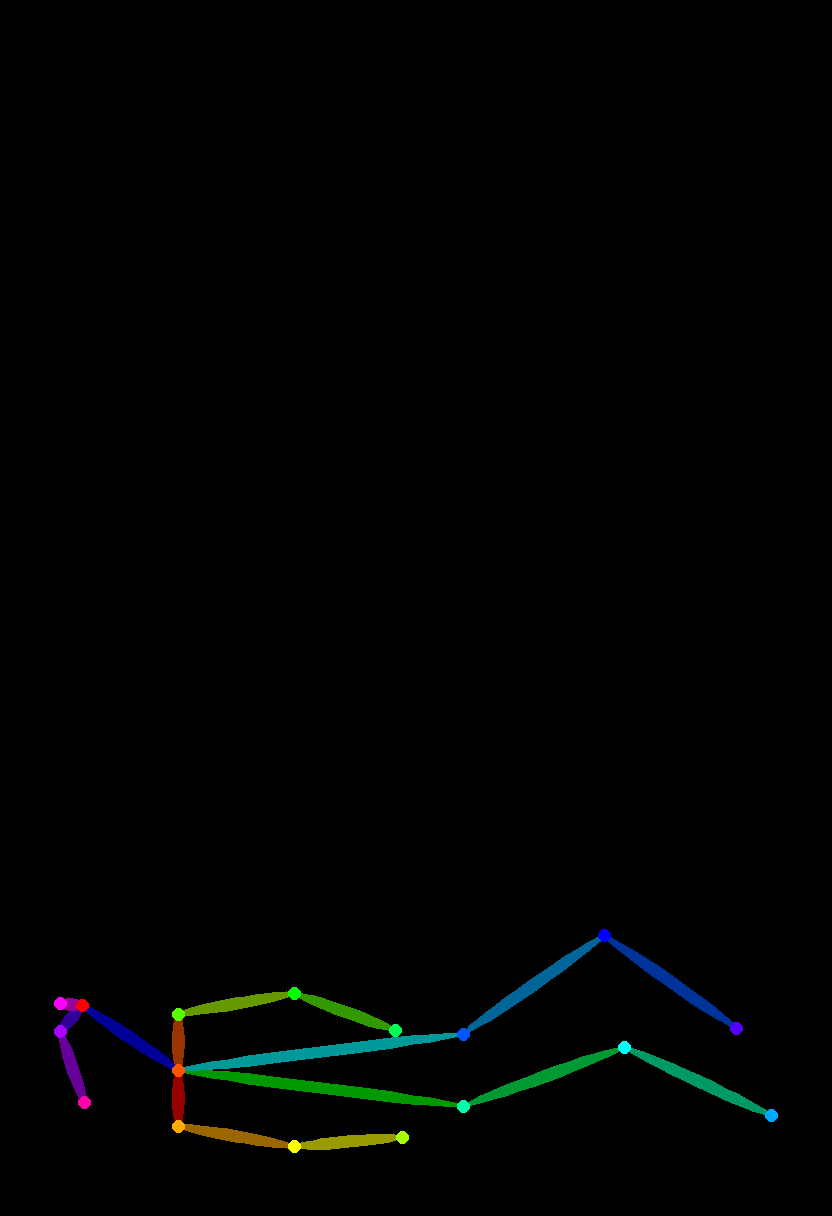
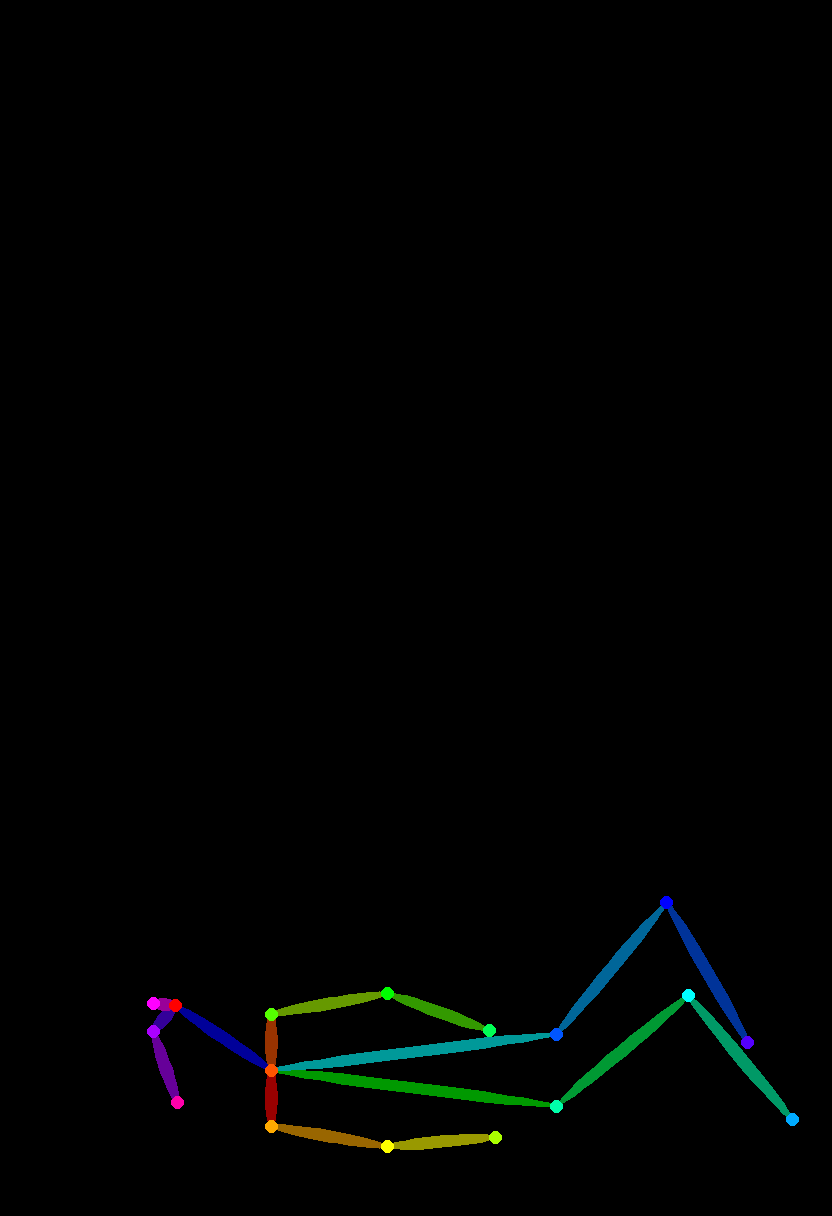
Fold KO legs so both lying poses fit the shared canvas
The in-engine state capture showed Akaken's topknot and Aotake's hat tip
clipped at the 832x1216 canvas edge in the KO poses. make_poses.py now
counts the head tip for horizontal centring and the KO knees are folded
further. Only the two KO skeletons (plus their blocking, collision and
storyboard panels 06/08) change; the other 14 poses are identical.

Changed region(s): [[0.0625, 0.7188, 0.9688, 0.9688]]

diff --git a/tools/make_poses.py b/tools/make_poses.py
@@ -51,7 +51,7 @@ FIGHTERS = {
             "07_high_kick": (196, (-60, -35), (40, 160), (-6, 0), (118, 112), 0),
             "08_block": (184, (78, 176), (68, 178), (-22, -8), (20, 6), 0),
             "09_hurt": (206, (-125, -150), (-60, -100), (-30, -18), (14, 0), 0),
-            "10_ko_down": (-90, (80, 95), (100, 70), (110, 65), (125, 55), 0),
+            "10_ko_down": (-90, (80, 95), (100, 70), (130, 40), (140, 30), 0),
             "11_victory": (180, (172, 180), (30, -40), (-12, -4), (12, 4), 0),
         },
     },
@@ -68,7 +68,7 @@ FIGHTERS = {
             "02_front_kick": (192, (-50, -20), (35, 165), (-4, 0), (100, 92), 0),
             "03_block": (182, (75, 176), (65, 178), (-18, -6), (20, 6), 0),
             "04_hurt": (204, (-120, -150), (-55, -100), (-28, -16), (14, 0), 0),
-            "05_ko_down": (-90, (80, 95), (100, 70), (120, 45), (135, 35), 0),
+            "05_ko_down": (-90, (80, 95), (100, 70), (135, 30), (145, 25), 0),
         },
     },
 }
@@ -125,6 +125,9 @@ def solve(b, pose):
     # Lowest point of the solid body (feet, head, fists) rests on the ground line.
     pts = [p for p in k if p] + [add(head_c, (0, hr)), add(head_c, (0, -hr))]
     xs, ys = [p[0] for p in pts], [p[1] for p in pts]
+    # Topknot / hat tip sticks out ~1.6 head radii along the torso axis. It counts for horizontal
+    # centring (it was clipped in the lying KO poses) but not for grounding.
+    xs.append(add(head_c, mul(t, hr * 1.6))[0])
     dx = W / 2 - (min(xs) + max(xs)) / 2
     dy = GROUND_Y - max(ys) - air
     sh = lambda p: (p[0] + dx, p[1] + dy) if p else None

diff --git a/FRICTIONAL.md b/FRICTIONAL.md
@@ -41,3 +41,18 @@ contributions, and generative-model outputs. Retrospective notes are labeled.
 - **Still unresolved:** whether the red gi at 2.82:1 is enough in motion; whether ControlNet
   OpenPose respects 5-head skeletons (it is trained mostly on realistic proportions); which GPU I
   will actually get.
+
+## 2026-10-05 — KO poses clipped, found in-engine (before any generation)
+
+- **Wanted:** every state image to fit the shared 832×1216 canvas, because the same canvas is the
+  ControlNet input and the in-game sprite frame (CHANGE-BRIEF failure case 6, art vs collision).
+- **Observed:** Claude's Godot state capture (`evidence/states_contact.png`, F1 boxes on) showed both
+  KO poses cut at the canvas edge: Akaken's topknot and Aotake's hat tip were missing. Cause: the pose
+  centring in `tools/make_poses.py` ignored the topknot/hat, and the legs lying flat made the pose
+  wider than the canvas.
+- **Changed:** knees folded further in both KO poses, and the head tip now counts for horizontal
+  centring (not for grounding). Only the two KO skeletons changed; the other 14 are byte-identical.
+  Re-checked in `evidence/ko_check.png`; 39 automated checks still pass.
+- **Human / Claude / model:** I asked for the fix before generation; Claude found the clipping in the
+  capture and changed the script. No generative model involved.
+- **Still unresolved:** whether the model will draw a hat that is "beside the head" as the KO prompt says.
